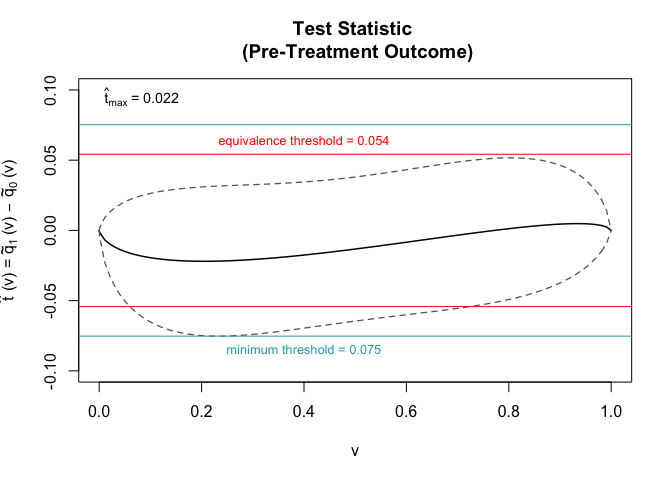
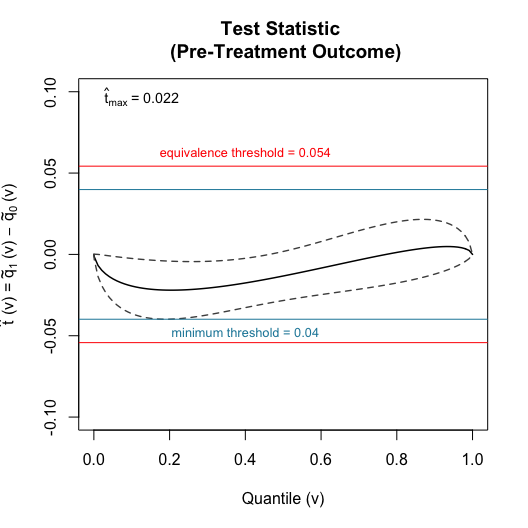
update readme

diff --git a/README.md b/README.md
@@ -123,15 +123,15 @@ equiv_test <- equivalence_test(
 summary(equiv_test)
 #> ── Equivalence Test ─────────────────────────────
 #> Estimate (tmax)           Lower           Upper          pvalue 
-#>          0.0220         -0.0753          0.0517          0.1594 
+#>         0.02199        -0.03986         0.02155         0.00151 
 #> 
-#> [1] H0 of no-equivalence is NOT REJECTED with threshold 0.054
+#> [1] H0 of no-equivalence is REJECTED with threshold 0.054
 
 ## plot result
-plot(equiv_test, ylim = c(-0.1, 0.1))
+plot(equiv_test, ylim = c(-0.1, 0.1), fill = FALSE)
 ```
 
-<img src="man/figures/README-example2-1.png" width="100%" />
+![](man/figures/README-example2-1.png)<!-- -->
 
 ``` r
 
@@ -144,7 +144,7 @@ equiv_test2 <- equivalence_test(
 summary(equiv_test2)
 #> ── Equivalence Test ─────────────────────────────
 #> Estimate (tmax)           Lower           Upper          pvalue 
-#>          0.0220         -0.0753          0.0517          0.6457 
+#>          0.0220         -0.0399          0.0215          0.8677 
 #> 
 #> [1] H0 of no-equivalence is NOT REJECTED with threshold 0.01
 ```
